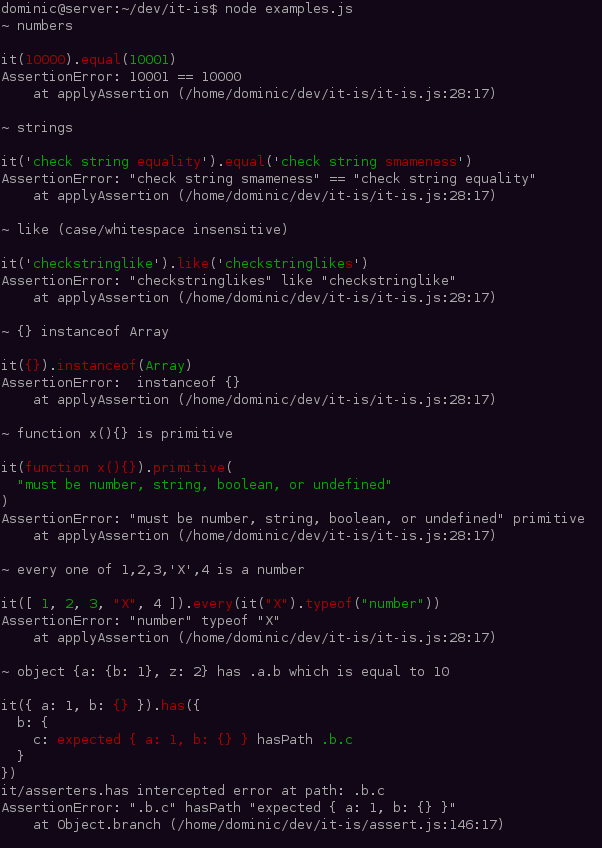
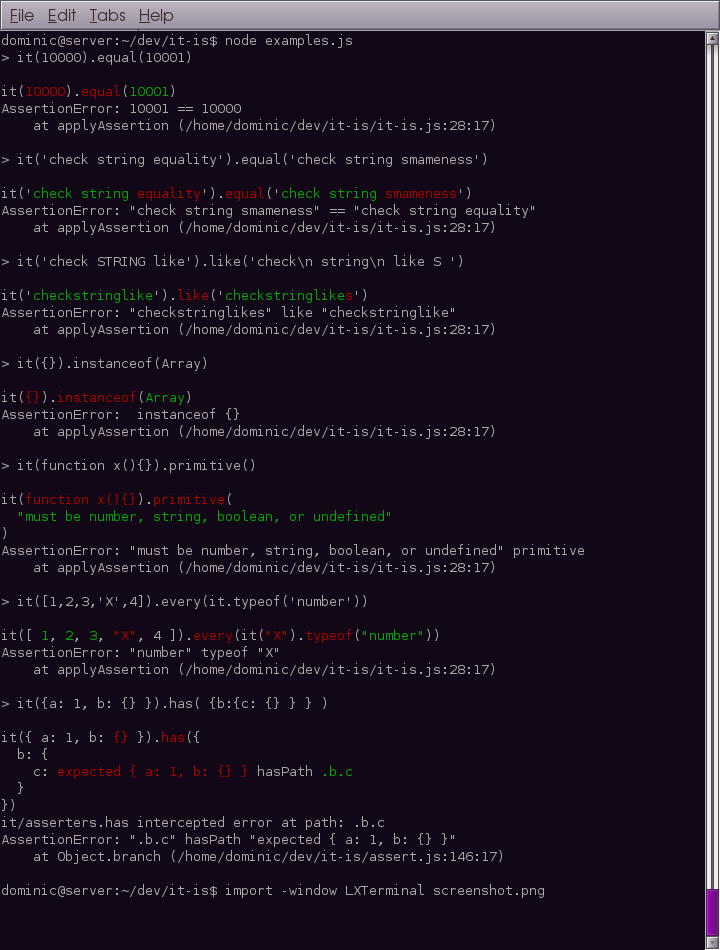
documentation in README, updated screenshot

diff --git a/examples.js b/examples.js
@@ -1,31 +1,30 @@
 var it = require('it-is') //defaults to colour
 
 exports = module.exports = 
-  {
-   'numbers': function (){
-      it(10000).equal(10001)
-    },
-   'strings': function (){
-      it('check string equality').equal('check string smameness')
-    },
-   'like (case/whitespace insensitive)': function (){
-      it('check STRING like').like('check\n string\n like S ')
-    },
-   '{} instanceof Array': function (){
-      it({}).instanceof(Array)
-    },
-   'function x(){} is primitive ': function (){
-      it(function x(){}).primitive()
-    },
-   'every one of 1,2,3,\'X\',4 is a number': function (){
-      it([1,2,3,'X',4]).every(it.typeof('number'))
-    },
-   'object {a: {b: 1}, z: 2} has .a.b which is equal to 10': function (){
-      it({a: {b: 1}, z: 2}).has({a: {b: it.equal(10) } })
-    },
-   'object {a: {b: 1}, z: 2} has .a.b which is equal to 10': function (){
-      it({a: 1, b: {} }).has( {b:{c: {} } } )
-    }
+  { 'numbers': 
+      "it(10000).equal(10001)"
+
+  , 'strings': 
+      "it('check string equality').equal('check string smameness')"
+
+  , 'like (case/whitespace insensitive)': 
+      "it('check STRING like').like('check\\n string\\n like S ')"
+
+  , '{} instanceof Array': 
+      "it({}).instanceof(Array)"
+
+  , 'function x(){} is primitive ': 
+      "it(function x(){}).primitive()"
+
+  , 'every one of 1,2,3,\'X\',4 is a number': 
+      "it([1,2,3,'X',4]).every(it.typeof('number'))"
+
+  , 'object {a: {b: 1}, z: 2} has .a.b which is equal to 10': 
+      "it({a: {b: 1}, z: 2}).has({a: {b: it.equal(10) } })"
+
+  , 'object {a: {b: 1}, z: 2} has .a.b which is equal to 10': 
+      "it({a: 1, b: {} }).has( {b:{c: {} } } )"
+
   }
 
 
@@ -36,9 +35,10 @@ if(require.main == module)
   for (var i in exports){
     Error.stackTraceLimit = 1
     try{
-      exports[i]()
+      eval(exports[i])
     } catch (error){
-      console.log('~',i)
+
+      console.log("> " + exports[i])
       console.log()
       console.log(error.stack)
       console.log()

diff --git a/README.md b/README.md
@@ -1,7 +1,156 @@
 
 #It-Is#
 
-##a terse assertion DSL##
+a terse assertion DSL, inheriting from node's assert module, but enhanced with the power of functional programming & colours!
+
+# Basic Usage#
+
+    var it = require('it-is')
+   
+    it(actual).equal(10)
+
+# High-level Usuage #
+
+`every` applies an assertion function to every item in a list.
+
+    it(arrayOfNumbers)
+      .every(it.typeof('number'))
+    
+
+`has` applies assertion functions to leaves of a tree.
+
+    it({a:1, b: 3})
+      .has({
+        a: it.typeof('number').notEqual(3)
+      , b: it.equal(3)
+      })
+
+huh?
+
+if you call `it` with an argument `it(actual)` assertions chained will be applied immediately.
+
+    it(actual).equal(expected) 
+
+is that same as 
+
+    assert.equal(actual,expected)
+
+if you don't provide an argument, but just start chaining `it.equal(expected)`, it returns a function which makes that assertion.
+
+    it.typeof('number').notEqual(unexpected)
+    
+returns a function like this:
+
+    function (actual){
+      assert.typeof(actual,'number') //not in node's assert. added in it-is
+      assert.notEqual(actual,unexpected)
+    }
+
+pass these functions into It-Is's every and has for terse assertion easyness!
+
+then glance at the error messages which are highlighted to show the exact point the assertion failed:
 
 <img src="https://github.com/dominictarr/it-is/raw/master/screenshot.png" border = "0"/>
 
+#Assertion Methods#
+
+node's assert module methods:
+
+`ok`,`equal`,`notEqual`,`deepEqual`,`notDeepEqual`,`strictEqual`,`notStrictEqual`,`throws`,`doesNotThrow`,`ifError`
+
+and also:
+
+##typeof##
+assert type, expected can be 'string', 'number', 'boolean', 'object', 'function', or 'undefined'
+
+    it(actual).typeof(type)
+
+##instanceof##
+assert instanceof, expected should be a constructor function
+
+    it(actual).instanceof(constructor) 
+    
+example:
+    
+    it([]).instanceof(Array)
+
+##primitive##
+assert is not an object or a function
+
+    it(7).primitive()
+
+##complex##
+assert is an object or a function
+
+    it({}).complex()
+    
+##function##
+assert is a function
+
+
+    it(function(){}).function()
+
+##matches##
+assert matches a regular expresson
+
+    it(actual).matches(regex)
+    
+example:
+    
+    it('asdf@asdf.com').matches(/^([^@\s]+)@((?:[-a-z0-9]+\.)+[a-z]{2,})$/)
+
+##like##
+assert two strings match, but ignoring case, white space and whether quotes are " or '. (is configurable)
+
+  it(actual).like(expected, options)
+
+options object is optional! but should be this format:
+
+    {case: boolean,whitespace: boolean, quotes: boolean}
+
+##every##
+
+apply assertions to every item in an array
+
+    it(array).every(assertion)
+
+example:
+  
+    it([1,2,3,4,5]).every(it.typeof('number').notEqual(0))
+    
+assertion is just a function
+
+    it([
+      [1,1.0]
+    , [1,1e0]
+    , [1,7/7]
+    ]).every(function (line){
+      assert.equal(line[0],line[1])
+    })
+      
+##has##
+
+apply asssertions to properties of an object, checking that properties and actually there first.
+
+    it(actual).has(properties)
+
+if a property is primitive, it's checked for equality.
+if a property is a function, it's called with actual's corrisponding property as the argument.
+
+example:
+
+    it({
+        a: 1
+      , b: 2
+      , c: { x: true }
+      , d: [1,2,3,4,5,true,'string'] 
+      })
+      .has({
+        a: it.notEqual(0)
+      , b: 2 //values are treated like it.equal(value)
+      , c: it.complex()
+      , d: it.every(it.primitive())
+      })
+
+
+enjoy!
